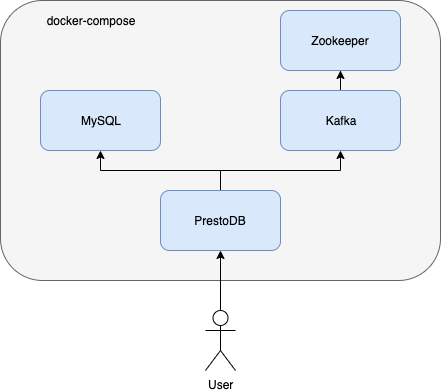
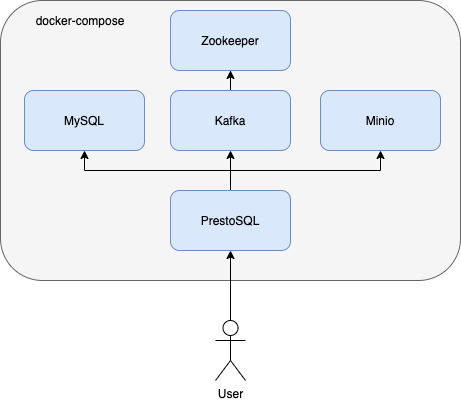
add Minio and bump Kafka versions

diff --git a/README.md b/README.md
@@ -1,14 +1,14 @@
 # Presto with MySQL and Kafka
 
-Presto, MySQL and Kafka in Docker.  Query your MySQL data and join it to Kafka data.
+Presto, MySQL, Minio and Kafka in Docker.  Query your MySQL data and join it to Kafka and Minio data.
 
-This repository includes docker-compose setup to join MySQL and Kafka data using Presto, along with some notes on how to load the data and perform the queries.  It is deliberately not fully automated to guide the user through performing this.
+This repository includes docker-compose setup to join MySQL, Minio and Kafka data using Presto, along with some notes on how to load the data and perform the queries.  It is deliberately not fully automated to guide the user through performing this.
 
 ![img/Presto.png](img/Presto.png)
 
 ## Usage
 
-Launch everything (Presto, Zookeeper, Kafka, MySQL):
+Launch everything (Presto, Zookeeper, Kafka, MySQL, Minio):
 
 ```shell script
 docker-compose up
@@ -52,18 +52,42 @@ show tables;
 Query Kafka data in Presto:
 
 ```sql
-use kafka.tpch;
 SELECT _message FROM customer LIMIT 5;
-SELECT sum(account_balance) FROM customer LIMIT 10;
+SELECT sum(account_balance) FROM kafka.tpch.customer LIMIT 10;
 ```
 
 Join the two together:
 
 ```sql
-SELECT customer.account_balance, contacts.email FROM customer, mysql.wheresalice.contacts contacts WHERE customer.customer_key = contacts.customer_key;
+SELECT customer.account_balance, contacts.email FROM kafka.tpch.customer, mysql.wheresalice.contacts contacts WHERE customer.customer_key = contacts.customer_key;
 ```
 
 View what's happening through the Presto UI: http://localhost:8080/ui/
+
+### Minio/S3
+
+Minio is included in this stack to mock out S3.  It currently takes a little manual configuration to use.
+
+```shell script
+docker-compose exec minio /bin/sh
+mkdir -p /data/catalog/ && mkdir -p /data/csvdata
+echo "alice@example.com,alice" > /data/csvdata/data.csv
+exit
+```
+
+Then create the table in Presto shell to query:
+
+```sql
+create schema s3.default;
+create table s3.default.users (email varchar, username varchar) WITH (external_location='s3a://csvdata/',format = 'csv');
+select * from s3.default.users;
+SELECT users.username, contacts.customer_key FROM s3.default.users, mysql.wheresalice.contacts WHERE users.email = contacts.email;
+```
+
+You can also upload data into Minio using a web browser via http://localhost:9000
+
+Access Key: minio
+Secret Key: minio123
 
 ## Known Issues
 
